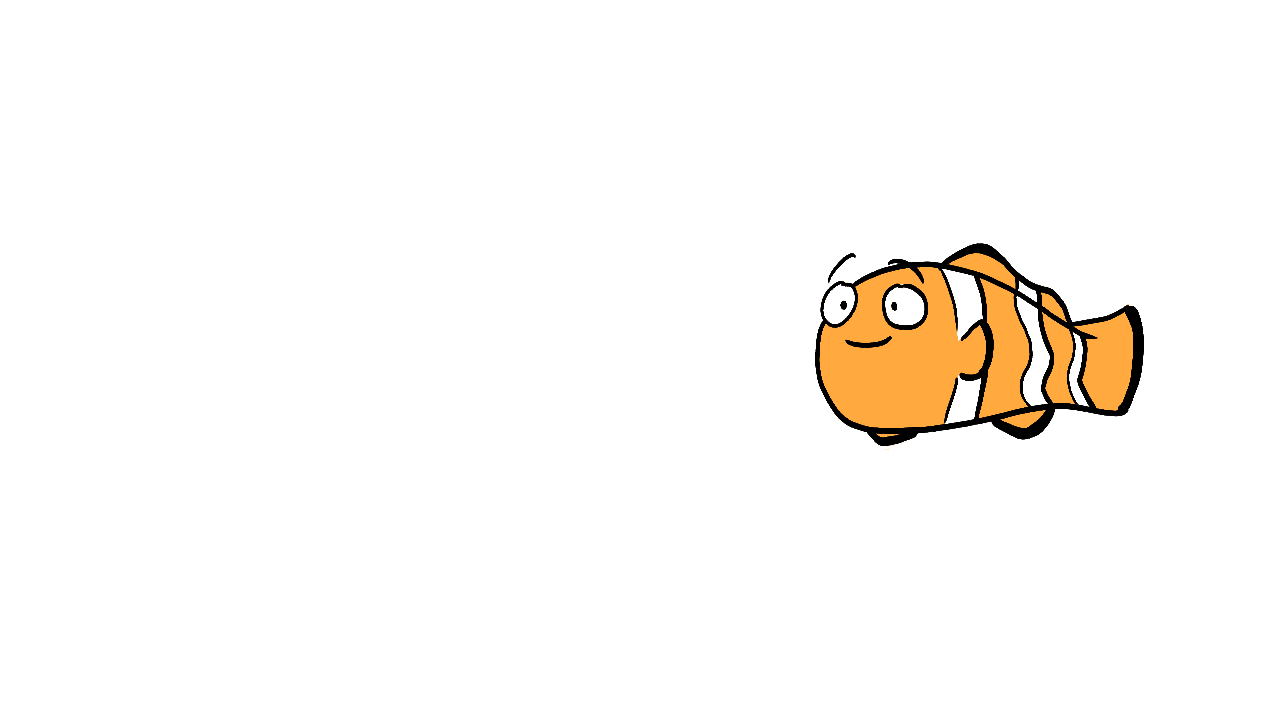
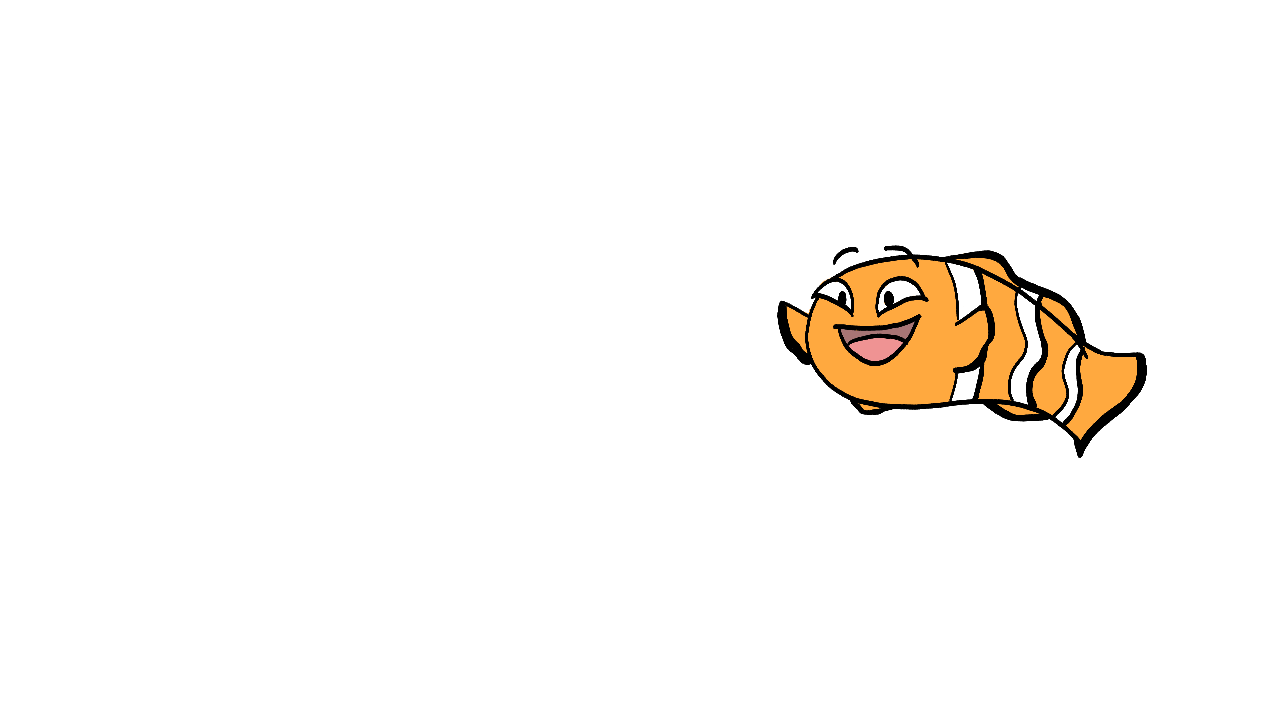
changed clownfish art

Changed region(s): [[0.5938, 0.3361, 0.9062, 0.6417]]

diff --git a/FishGame/Assets/Scripts/Scene2bDialogue.cs b/FishGame/Assets/Scripts/Scene2bDialogue.cs
@@ -145,6 +145,7 @@ public void next(){
 
 // ENCOUNTER AFTER CHOICE #1
        else if (primeInt == 100){
+		   ArtChar2a.SetActive(false);
 		   ArtChar2b.SetActive(true);
                 Char1name.text = "";
                 Char1speech.text = "";
@@ -205,6 +206,7 @@ public void next(){
         }
 		
 		       else if (primeInt == 201){
+			ArtChar2a.SetActive(false);
 			ArtChar2c.SetActive(false);
                 Char1name.text = "";
                 Char1speech.text = "The clownfish solomly swimms back into the anemone.";
